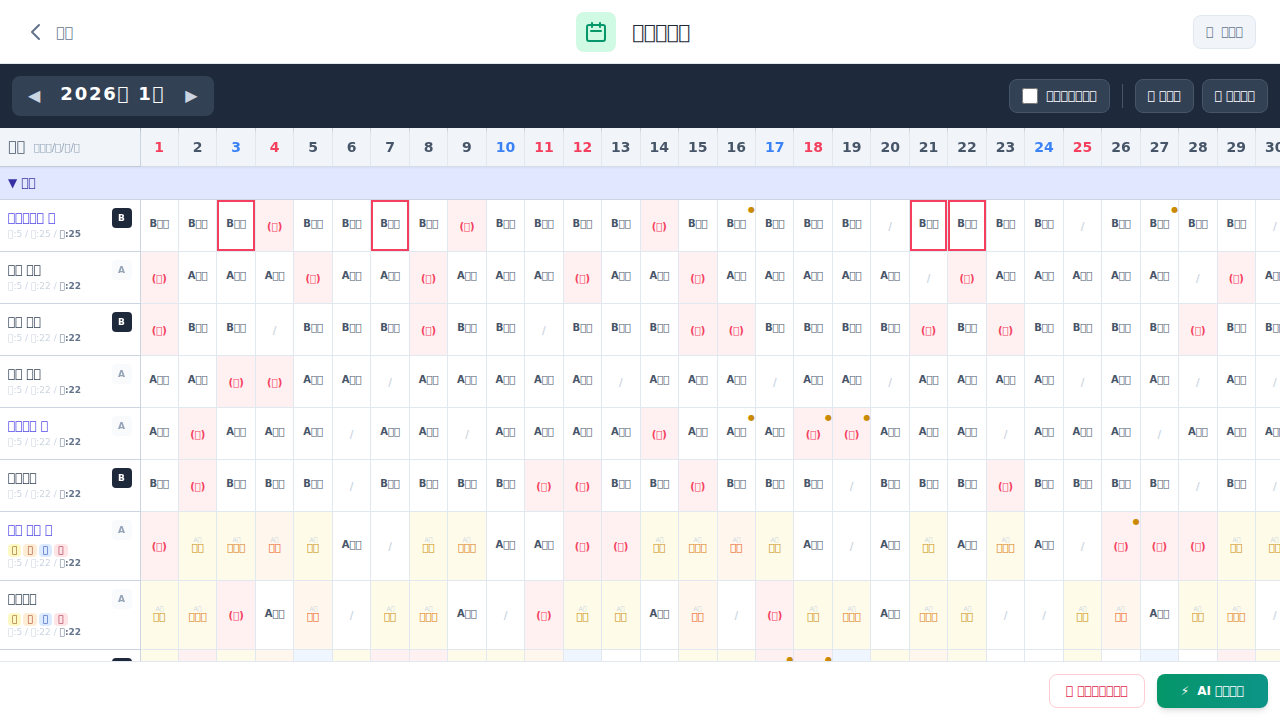
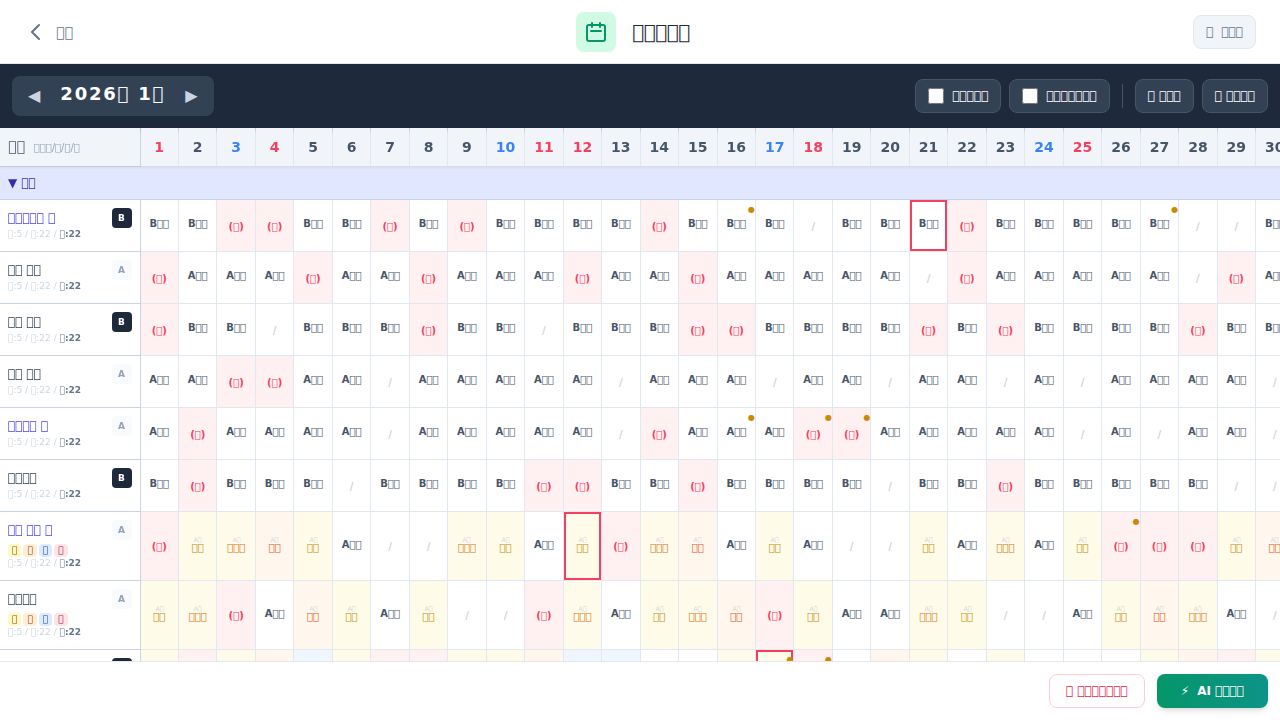
Enforce strict contract limits, add pre-calc for off days, and improve UI visibility for roles and manager absence.

diff --git a/js/shift.js b/js/shift.js
@@ -632,9 +632,14 @@ export function renderShiftStaffList() {
         if(!c) return;
         c.innerHTML = '';
         list.forEach(name => {
+            const details = shiftState.staffDetails[name] || {};
             const btn = document.createElement('button');
             btn.className = "bg-white border-2 border-slate-100 hover:border-emerald-500 hover:bg-emerald-50 hover:text-emerald-700 text-slate-600 font-bold py-4 px-2 rounded-2xl text-sm transition-all shadow-sm active:scale-95 flex flex-col items-center justify-center gap-1";
-            btn.innerHTML = `<span class="text-2xl opacity-50">👤</span><span>${name}</span>`;
+            btn.innerHTML = `
+                <span class="text-2xl opacity-50">👤</span>
+                <span>${name}</span>
+                ${renderRoleBadges(details.allowed_roles)}
+            `;
             btn.onclick = () => selectShiftStaff(name);
             c.appendChild(btn);
         });
@@ -790,12 +795,45 @@ export function renderShiftAdminTable() {
 
     const headerRow = document.getElementById('shift-admin-header-row');
     while (headerRow.children.length > 1) headerRow.removeChild(headerRow.lastChild);
+
+    // ★Fix: Manager Absence Check (Pre-scan)
+    const dangerDays = [];
+    const responsibleRoles = ['マネージャー', '主任', 'チーフ', 'リーダー'];
+    const allStaffNames = [...shiftState.staffListLists.employees, ...shiftState.staffListLists.alba_early, ...shiftState.staffListLists.alba_late];
+
+    for(let d=1; d<=daysInMonth; d++) {
+        let hasResponsible = false;
+        for(const name of allStaffNames) {
+            const data = shiftState.shiftDataCache[name] || {};
+            const assignment = data.assignments ? data.assignments[d] : null;
+            if(assignment && assignment !== '公休') {
+                const details = shiftState.staffDetails[name] || {};
+                const allowed = details.allowed_roles || [];
+                const rank = details.rank || '';
+                // Responsible if: Allowed Money Main OR High Rank
+                if (allowed.includes('money_main') || responsibleRoles.includes(rank)) {
+                    hasResponsible = true;
+                    break;
+                }
+            }
+        }
+        if(!hasResponsible) dangerDays.push(d);
+    }
+
     for(let d=1; d<=daysInMonth; d++) {
         const th = document.createElement('th');
         const dayOfWeek = new Date(y, m-1, d).getDay();
         const isHoliday = holidays.includes(d);
-        const color = (dayOfWeek===0 || isHoliday) ?'text-rose-500':dayOfWeek===6?'text-blue-500':'text-slate-600';
-        th.className = `p-2 border-b border-r border-slate-200 min-w-[30px] text-center ${color} font-num`;
+        let color = (dayOfWeek===0 || isHoliday) ?'text-rose-500':dayOfWeek===6?'text-blue-500':'text-slate-600';
+        let bg = 'bg-slate-100';
+
+        // Highlight Danger Days
+        if (dangerDays.includes(d)) {
+            bg = 'bg-rose-500';
+            color = 'text-white';
+        }
+
+        th.className = `p-2 border-b border-r border-slate-200 min-w-[30px] text-center ${color} ${bg} font-num`;
         th.textContent = d;
         headerRow.appendChild(th);
     }
@@ -1042,7 +1080,10 @@ function renderAdminMobileList() {
                 <div class="w-10 h-10 rounded-full bg-slate-100 flex items-center justify-center text-lg">👤</div>
                 <div>
                     <h4 class="font-bold text-slate-800">${name}</h4>
-                    <span class="text-xs text-slate-400 font-bold">${details.rank || '-'}</span>
+                    <div class="flex flex-col">
+                        <span class="text-xs text-slate-400 font-bold">${details.rank || '-'}</span>
+                        ${renderRoleBadges(details.allowed_roles)}
+                    </div>
                 </div>
             </div>
             <div class="text-right">
@@ -1322,7 +1363,8 @@ function checkAssignmentConstraint(staff, day, prevMonthAssignments, prevDaysCou
     };
 
     // 0. Strict Contract Enforcement (Highest Priority)
-    if (!strictContractMode && !isAdjustmentMode && staff.assignedDays.length >= staff.contractDays) return false;
+    // ★Fix: Hard Limit (Absolute limit even in strict mode, unless manual adjustment)
+    if (!isAdjustmentMode && staff.assignedDays.length >= staff.contractDays) return false;
 
     // 1. Strict Interval (Absolute): No Late -> Early
     if (day > 1) {
@@ -1407,6 +1449,25 @@ async function generateAutoShift() {
         // 1. Prepare Context (Reusing Shared Logic)
         const context = await prepareShiftAnalysisContext(Y, M, shifts, shiftState.staffDetails, shiftState.staffListLists);
         const { staffObjects, daysInMonth, prevMonthAssignments, prevDaysCount } = context;
+
+        // ★Fix: Pre-calculation & Invalidate Off Requests for Contract Shortage
+        staffObjects.forEach(s => {
+            const maxAvailable = daysInMonth - s.requests.off.length;
+            if (maxAvailable < s.contractDays) {
+                const deficit = s.contractDays - maxAvailable;
+                if (deficit > 0) {
+                    // Remove 'deficit' amount of off days from the END of the list
+                    // (To minimize impact, or maybe maximize? Random is fine, simple slice is consistent)
+                    if (s.requests.off.length >= deficit) {
+                         // Keep the first (length - deficit) requests
+                         // e.g. off=[1,2,3], deficit=1 -> keep [1,2]
+                         s.requests.off = s.requests.off.slice(0, s.requests.off.length - deficit);
+                    } else {
+                         s.requests.off = [];
+                    }
+                }
+            }
+        });
 
         // Clear assignments for simulation
         staffObjects.forEach(s => {
